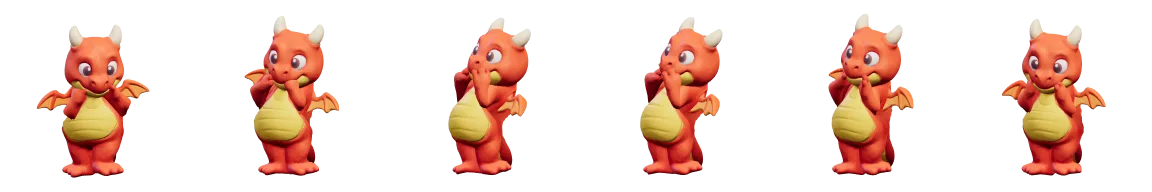
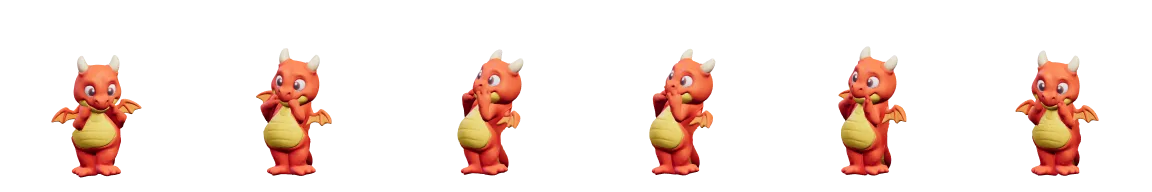
Dragen med alle rangene (vinger, gullvinger, krone) og litt større helt i kamp

diff --git a/js/figdata.js b/js/figdata.js
@@ -1,3 +1,3 @@
 // GENERERT av tools/figsync.js fra img/fig/manifest.json – ikke rediger for hånd (kjør node tools/figsync.js).
 // Registeret for figurene (js/figures.js): figs, atlas og files (filnavn -> versjon).
-const FIG_DATA={"figs":{"troll":{"kind":"boss","size":256,"anims":{"idle":{"n":16,"ms":2200,"loop":true},"taunt":{"n":16,"ms":1600},"hit":{"n":12,"ms":650},"fall":{"n":16,"ms":1300}}},"orm":{"kind":"boss","size":256,"anims":{"idle":{"n":16,"ms":1900,"loop":true},"taunt":{"n":16,"ms":1500},"hit":{"n":12,"ms":650},"fall":{"n":16,"ms":1300}}},"h-dragon-r0":{"kind":"hero","key":"dragon","rank":0,"size":192,"anims":{"idle":{"n":12,"ms":2000,"loop":true},"atk":{"n":8,"ms":560,"loop":false},"block":{"n":6,"ms":450,"loop":false},"win":{"n":12,"ms":1200,"loop":false}},"poster":true,"head":{"x":0.467,"y":0.358},"top":{"x":0.5,"y":0.147}},"h-unicorn-r0":{"kind":"hero","key":"unicorn","rank":0,"size":192,"anims":{"idle":{"n":12,"ms":2000,"loop":true},"atk":{"n":8,"ms":560,"loop":false},"block":{"n":6,"ms":450,"loop":false},"win":{"n":12,"ms":1200,"loop":false}},"poster":true,"head":{"x":0.621,"y":0.359},"top":{"x":0.68,"y":0.18}},"m-add10":{"kind":"mon","tid":"add10","size":256,"anims":{"idle":{"n":1},"au":{"n":1}}},"m-sub10":{"kind":"mon","tid":"sub10","size":256,"anims":{"idle":{"n":1},"au":{"n":1}}},"m-ten1":{"kind":"mon","tid":"ten1","size":256,"anims":{"idle":{"n":1},"au":{"n":1}}},"m-cmp1":{"kind":"mon","tid":"cmp1","size":256,"anims":{"idle":{"n":1},"au":{"n":1}}},"m-pat1":{"kind":"mon","tid":"pat1","size":256,"anims":{"idle":{"n":1},"au":{"n":1}}},"m-seq1":{"kind":"mon","tid":"seq1","size":256,"anims":{"idle":{"n":1},"au":{"n":1}}},"m-eq1":{"kind":"mon","tid":"eq1","size":256,"anims":{"idle":{"n":1},"au":{"n":1}}},"m-add20":{"kind":"mon","tid":"add20","size":256,"anims":{"idle":{"n":1},"au":{"n":1}}},"m-sub20":{"kind":"mon","tid":"sub20","size":256,"anims":{"idle":{"n":1},"au":{"n":1}}},"m-clock1":{"kind":"mon","tid":"clock1","size":256,"anims":{"idle":{"n":1},"au":{"n":1}}},"m-place2":{"kind":"mon","tid":"place2","size":256,"anims":{"idle":{"n":1},"au":{"n":1}}},"m-line2":{"kind":"mon","tid":"line2","size":256,"anims":{"idle":{"n":1},"au":{"n":1}}},"m-count2":{"kind":"mon","tid":"count2","size":256,"anims":{"idle":{"n":1},"au":{"n":1}}},"m-add100":{"kind":"mon","tid":"add100","size":256,"anims":{"idle":{"n":1},"au":{"n":1}}},"m-sub100":{"kind":"mon","tid":"sub100","size":256,"anims":{"idle":{"n":1},"au":{"n":1}}},"m-miss2":{"kind":"mon","tid":"miss2","size":256,"anims":{"idle":{"n":1},"au":{"n":1}}},"m-even2":{"kind":"mon","tid":"even2","size":256,"anims":{"idle":{"n":1},"au":{"n":1}}},"m-money2":{"kind":"mon","tid":"money2","size":256,"anims":{"idle":{"n":1},"au":{"n":1}}},"m-dbl2":{"kind":"mon","tid":"dbl2","size":256,"anims":{"idle":{"n":1},"au":{"n":1}}},"m-mul25":{"kind":"mon","tid":"mul25","size":256,"anims":{"idle":{"n":1},"au":{"n":1}}},"n-nullius":{"kind":"still","size":256,"anims":{"idle":{"n":1}}},"n-nullius-0":{"kind":"still","size":256,"anims":{"idle":{"n":1}}},"h-super-r0":{"kind":"hero","key":"super","rank":0,"size":192,"anims":{"idle":{"n":12,"ms":2000,"loop":true},"atk":{"n":8,"ms":560,"loop":false},"block":{"n":6,"ms":450,"loop":false},"win":{"n":12,"ms":1200,"loop":false}},"poster":true,"head":{"x":0.478,"y":0.371},"top":{"x":0.514,"y":0.124}},"h-wizard-r0":{"kind":"hero","key":"wizard","rank":0,"size":192,"anims":{"idle":{"n":12,"ms":2000,"loop":true},"atk":{"n":8,"ms":560,"loop":false},"block":{"n":6,"ms":450,"loop":false},"win":{"n":12,"ms":1200,"loop":false}},"poster":true,"head":{"x":0.477,"y":0.42},"top":{"x":0.517,"y":0.144}},"h-fox-r0":{"kind":"hero","key":"fox","rank":0,"size":192,"anims":{"idle":{"n":12,"ms":2000,"loop":true},"atk":{"n":8,"ms":560,"loop":false},"block":{"n":6,"ms":450,"loop":false},"win":{"n":12,"ms":1200,"loop":false}},"poster":true,"head":{"x":0.472,"y":0.462},"top":{"x":0.502,"y":0.273}},"h-ninja-r0":{"kind":"hero","key":"ninja","rank":0,"size":192,"anims":{"idle":{"n":12,"ms":2000,"loop":true},"atk":{"n":8,"ms":560,"loop":false},"block":{"n":6,"ms":450,"loop":false},"win":{"n":12,"ms":1200,"loop":false}},"poster":true,"head":{"x":0.474,"y":0.386},"top":{"x":0.511,"y":0.136}},"h-fairy-r0":{"kind":"hero","key":"fairy","rank":0,"size":192,"anims":{"idle":{"n":12,"ms":2000,"loop":true},"atk":{"n":8,"ms":560,"loop":false},"block":{"n":6,"ms":450,"loop":false},"win":{"n":12,"ms":1200,"loop":false}},"poster":true,"head":{"x":0.484,"y":0.365},"top":{"x":0.524,"y":0.093}},"h-robot-r0":{"kind":"hero","key":"robot","rank":0,"size":192,"anims":{"idle":{"n":12,"ms":2000,"loop":true},"atk":{"n":8,"ms":560,"loop":false},"block":{"n":6,"ms":450,"loop":false},"win":{"n":12,"ms":1200,"loop":false}},"poster":true,"head":{"x":0.464,"y":0.406},"top":{"x":0.497,"y":0.146}}},"atlas":{"s":{"file":"s-atlas.webp","cell":128,"w":768,"h":128,"items":{"0":[0,0],"1":[128,0],"2":[256,0],"3":[384,0],"4":[512,0],"5":[640,0]}},"p":{"file":"p-atlas.webp","cell":128,"w":768,"h":128,"items":{"chick":[0,0],"troll":[128,0],"butterfly":[256,0],"snake":[384,0],"crab":[512,0],"unicorn":[640,0]}}},"files":{"troll-idle.webp":"d6170ea9","troll-taunt.webp":"ec3d67c2","troll-hit.webp":"ded5462f","troll-fall.webp":"60408fed","orm-idle.webp":"376940ad","orm-taunt.webp":"a3bbf7b4","orm-hit.webp":"c51fb278","orm-fall.webp":"720150bd","h-dragon-r0-idle.webp":"0bebfcb2","h-dragon-r0-atk.webp":"896cbad2","h-dragon-r0-block.webp":"1406e22c","h-dragon-r0-win.webp":"226b0726","h-dragon-r0-poster.webp":"6b375b8d","h-unicorn-r0-idle.webp":"233be9b7","h-unicorn-r0-atk.webp":"be4c45d4","h-unicorn-r0-block.webp":"9d7732c1","h-unicorn-r0-win.webp":"71592e60","h-unicorn-r0-poster.webp":"4f27aa96","m-add10-idle.webp":"5d3c8532","m-add10-au.webp":"bc1979eb","m-sub10-idle.webp":"cacc0e66","m-sub10-au.webp":"82e89d97","m-ten1-idle.webp":"6ba46970","m-ten1-au.webp":"0f74cf09","m-cmp1-idle.webp":"6252f305","m-cmp1-au.webp":"2cefd33c","m-pat1-idle.webp":"d6b15438","m-pat1-au.webp":"97b20f22","m-seq1-idle.webp":"56edfe5a","m-seq1-au.webp":"d93b63d3","m-eq1-idle.webp":"74cbf384","m-eq1-au.webp":"47231a3d","m-add20-idle.webp":"27cd454a","m-add20-au.webp":"7c5ab995","m-sub20-idle.webp":"c0302ee8","m-sub20-au.webp":"e4b2fa83","m-clock1-idle.webp":"c74b902c","m-clock1-au.webp":"a9e1407c","m-place2-idle.webp":"ef45e82d","m-place2-au.webp":"f5cefb62","m-line2-idle.webp":"431129cb","m-line2-au.webp":"e063bb8d","m-count2-idle.webp":"5ae15c43","m-count2-au.webp":"01e0502c","m-add100-idle.webp":"6d4e9443","m-add100-au.webp":"c706ee81","m-sub100-idle.webp":"6529295c","m-sub100-au.webp":"a05fd245","m-miss2-idle.webp":"b58cdff5","m-miss2-au.webp":"13c20f8c","m-even2-idle.webp":"88120319","m-even2-au.webp":"171b8414","m-money2-idle.webp":"49811dfa","m-money2-au.webp":"ec9dfe41","m-dbl2-idle.webp":"cbf1e3f9","m-dbl2-au.webp":"415bf597","m-mul25-idle.webp":"93fa8112","m-mul25-au.webp":"43635e38","n-nullius-idle.webp":"245cbf7d","n-nullius-0-idle.webp":"57b320ff","h-super-r0-idle.webp":"520ecc83","h-super-r0-atk.webp":"7f12c8ca","h-super-r0-block.webp":"f2b40768","h-super-r0-win.webp":"34fc50a9","h-super-r0-poster.webp":"8254aab0","h-wizard-r0-idle.webp":"49307a80","h-wizard-r0-atk.webp":"f11a90de","h-wizard-r0-block.webp":"6d18dfef","h-wizard-r0-win.webp":"e77bf1c3","h-wizard-r0-poster.webp":"6ce6598e","h-fox-r0-idle.webp":"0ba04956","h-fox-r0-atk.webp":"e20f476b","h-fox-r0-block.webp":"3c1a57bf","h-fox-r0-win.webp":"50d18131","h-fox-r0-poster.webp":"5bd81fa2","h-ninja-r0-idle.webp":"5466d433","h-ninja-r0-atk.webp":"8bd07f6d","h-ninja-r0-block.webp":"924bdefd","h-ninja-r0-win.webp":"03f7a3fd","h-ninja-r0-poster.webp":"cd7fb27a","h-fairy-r0-idle.webp":"cd738c4f","h-fairy-r0-atk.webp":"3c5a9cd6","h-fairy-r0-block.webp":"111ccaa5","h-fairy-r0-win.webp":"2d08b867","h-fairy-r0-poster.webp":"468b665f","h-robot-r0-idle.webp":"44de8c27","h-robot-r0-atk.webp":"a5a7da61","h-robot-r0-block.webp":"b984bb30","h-robot-r0-win.webp":"7d0592ba","h-robot-r0-poster.webp":"7e4963cc","s-atlas.webp":"8e48be04","p-atlas.webp":"ed2b8d5c"}};
+const FIG_DATA={"figs":{"troll":{"kind":"boss","size":256,"anims":{"idle":{"n":16,"ms":2200,"loop":true},"taunt":{"n":16,"ms":1600},"hit":{"n":12,"ms":650},"fall":{"n":16,"ms":1300}}},"orm":{"kind":"boss","size":256,"anims":{"idle":{"n":16,"ms":1900,"loop":true},"taunt":{"n":16,"ms":1500},"hit":{"n":12,"ms":650},"fall":{"n":16,"ms":1300}}},"h-dragon-r0":{"kind":"hero","key":"dragon","rank":0,"size":192,"anims":{"idle":{"n":12,"ms":2000,"loop":true},"atk":{"n":8,"ms":560,"loop":false},"block":{"n":6,"ms":450,"loop":false},"win":{"n":12,"ms":1200,"loop":false}},"poster":true,"head":{"x":0.488,"y":0.47},"top":{"x":0.514,"y":0.302}},"h-unicorn-r0":{"kind":"hero","key":"unicorn","rank":0,"size":192,"anims":{"idle":{"n":12,"ms":2000,"loop":true},"atk":{"n":8,"ms":560,"loop":false},"block":{"n":6,"ms":450,"loop":false},"win":{"n":12,"ms":1200,"loop":false}},"poster":true,"head":{"x":0.621,"y":0.359},"top":{"x":0.68,"y":0.18}},"m-add10":{"kind":"mon","tid":"add10","size":256,"anims":{"idle":{"n":1},"au":{"n":1}}},"m-sub10":{"kind":"mon","tid":"sub10","size":256,"anims":{"idle":{"n":1},"au":{"n":1}}},"m-ten1":{"kind":"mon","tid":"ten1","size":256,"anims":{"idle":{"n":1},"au":{"n":1}}},"m-cmp1":{"kind":"mon","tid":"cmp1","size":256,"anims":{"idle":{"n":1},"au":{"n":1}}},"m-pat1":{"kind":"mon","tid":"pat1","size":256,"anims":{"idle":{"n":1},"au":{"n":1}}},"m-seq1":{"kind":"mon","tid":"seq1","size":256,"anims":{"idle":{"n":1},"au":{"n":1}}},"m-eq1":{"kind":"mon","tid":"eq1","size":256,"anims":{"idle":{"n":1},"au":{"n":1}}},"m-add20":{"kind":"mon","tid":"add20","size":256,"anims":{"idle":{"n":1},"au":{"n":1}}},"m-sub20":{"kind":"mon","tid":"sub20","size":256,"anims":{"idle":{"n":1},"au":{"n":1}}},"m-clock1":{"kind":"mon","tid":"clock1","size":256,"anims":{"idle":{"n":1},"au":{"n":1}}},"m-place2":{"kind":"mon","tid":"place2","size":256,"anims":{"idle":{"n":1},"au":{"n":1}}},"m-line2":{"kind":"mon","tid":"line2","size":256,"anims":{"idle":{"n":1},"au":{"n":1}}},"m-count2":{"kind":"mon","tid":"count2","size":256,"anims":{"idle":{"n":1},"au":{"n":1}}},"m-add100":{"kind":"mon","tid":"add100","size":256,"anims":{"idle":{"n":1},"au":{"n":1}}},"m-sub100":{"kind":"mon","tid":"sub100","size":256,"anims":{"idle":{"n":1},"au":{"n":1}}},"m-miss2":{"kind":"mon","tid":"miss2","size":256,"anims":{"idle":{"n":1},"au":{"n":1}}},"m-even2":{"kind":"mon","tid":"even2","size":256,"anims":{"idle":{"n":1},"au":{"n":1}}},"m-money2":{"kind":"mon","tid":"money2","size":256,"anims":{"idle":{"n":1},"au":{"n":1}}},"m-dbl2":{"kind":"mon","tid":"dbl2","size":256,"anims":{"idle":{"n":1},"au":{"n":1}}},"m-mul25":{"kind":"mon","tid":"mul25","size":256,"anims":{"idle":{"n":1},"au":{"n":1}}},"n-nullius":{"kind":"still","size":256,"anims":{"idle":{"n":1}}},"n-nullius-0":{"kind":"still","size":256,"anims":{"idle":{"n":1}}},"h-super-r0":{"kind":"hero","key":"super","rank":0,"size":192,"anims":{"idle":{"n":12,"ms":2000,"loop":true},"atk":{"n":8,"ms":560,"loop":false},"block":{"n":6,"ms":450,"loop":false},"win":{"n":12,"ms":1200,"loop":false}},"poster":true,"head":{"x":0.478,"y":0.371},"top":{"x":0.514,"y":0.124}},"h-wizard-r0":{"kind":"hero","key":"wizard","rank":0,"size":192,"anims":{"idle":{"n":12,"ms":2000,"loop":true},"atk":{"n":8,"ms":560,"loop":false},"block":{"n":6,"ms":450,"loop":false},"win":{"n":12,"ms":1200,"loop":false}},"poster":true,"head":{"x":0.477,"y":0.42},"top":{"x":0.517,"y":0.144}},"h-fox-r0":{"kind":"hero","key":"fox","rank":0,"size":192,"anims":{"idle":{"n":12,"ms":2000,"loop":true},"atk":{"n":8,"ms":560,"loop":false},"block":{"n":6,"ms":450,"loop":false},"win":{"n":12,"ms":1200,"loop":false}},"poster":true,"head":{"x":0.472,"y":0.462},"top":{"x":0.502,"y":0.273}},"h-ninja-r0":{"kind":"hero","key":"ninja","rank":0,"size":192,"anims":{"idle":{"n":12,"ms":2000,"loop":true},"atk":{"n":8,"ms":560,"loop":false},"block":{"n":6,"ms":450,"loop":false},"win":{"n":12,"ms":1200,"loop":false}},"poster":true,"head":{"x":0.474,"y":0.386},"top":{"x":0.511,"y":0.136}},"h-fairy-r0":{"kind":"hero","key":"fairy","rank":0,"size":192,"anims":{"idle":{"n":12,"ms":2000,"loop":true},"atk":{"n":8,"ms":560,"loop":false},"block":{"n":6,"ms":450,"loop":false},"win":{"n":12,"ms":1200,"loop":false}},"poster":true,"head":{"x":0.484,"y":0.365},"top":{"x":0.524,"y":0.093}},"h-robot-r0":{"kind":"hero","key":"robot","rank":0,"size":192,"anims":{"idle":{"n":12,"ms":2000,"loop":true},"atk":{"n":8,"ms":560,"loop":false},"block":{"n":6,"ms":450,"loop":false},"win":{"n":12,"ms":1200,"loop":false}},"poster":true,"head":{"x":0.464,"y":0.406},"top":{"x":0.497,"y":0.146}},"h-dragon-r1":{"kind":"hero","key":"dragon","rank":1,"size":192,"anims":{"idle":{"n":12,"ms":2000,"loop":true},"atk":{"n":8,"ms":560,"loop":false},"block":{"n":6,"ms":450,"loop":false},"win":{"n":12,"ms":1200,"loop":false}},"poster":true,"head":{"x":0.488,"y":0.47},"top":{"x":0.514,"y":0.302}},"h-dragon-r2":{"kind":"hero","key":"dragon","rank":2,"size":192,"anims":{"idle":{"n":12,"ms":2000,"loop":true},"atk":{"n":8,"ms":560,"loop":false},"block":{"n":6,"ms":450,"loop":false},"win":{"n":12,"ms":1200,"loop":false}},"poster":true,"head":{"x":0.488,"y":0.47},"top":{"x":0.514,"y":0.302}},"h-dragon-r3":{"kind":"hero","key":"dragon","rank":3,"size":192,"anims":{"idle":{"n":12,"ms":2000,"loop":true},"atk":{"n":8,"ms":560,"loop":false},"block":{"n":6,"ms":450,"loop":false},"win":{"n":12,"ms":1200,"loop":false}},"poster":true,"head":{"x":0.488,"y":0.47},"top":{"x":0.514,"y":0.302}}},"atlas":{"s":{"file":"s-atlas.webp","cell":128,"w":768,"h":128,"items":{"0":[0,0],"1":[128,0],"2":[256,0],"3":[384,0],"4":[512,0],"5":[640,0]}},"p":{"file":"p-atlas.webp","cell":128,"w":768,"h":128,"items":{"chick":[0,0],"troll":[128,0],"butterfly":[256,0],"snake":[384,0],"crab":[512,0],"unicorn":[640,0]}}},"files":{"troll-idle.webp":"d6170ea9","troll-taunt.webp":"ec3d67c2","troll-hit.webp":"ded5462f","troll-fall.webp":"60408fed","orm-idle.webp":"376940ad","orm-taunt.webp":"a3bbf7b4","orm-hit.webp":"c51fb278","orm-fall.webp":"720150bd","h-dragon-r0-idle.webp":"c5c17730","h-dragon-r0-atk.webp":"9162ac7a","h-dragon-r0-block.webp":"c0a21f40","h-dragon-r0-win.webp":"34f7a166","h-dragon-r0-poster.webp":"ea5c50ad","h-unicorn-r0-idle.webp":"233be9b7","h-unicorn-r0-atk.webp":"be4c45d4","h-unicorn-r0-block.webp":"9d7732c1","h-unicorn-r0-win.webp":"71592e60","h-unicorn-r0-poster.webp":"4f27aa96","m-add10-idle.webp":"5d3c8532","m-add10-au.webp":"bc1979eb","m-sub10-idle.webp":"cacc0e66","m-sub10-au.webp":"82e89d97","m-ten1-idle.webp":"6ba46970","m-ten1-au.webp":"0f74cf09","m-cmp1-idle.webp":"6252f305","m-cmp1-au.webp":"2cefd33c","m-pat1-idle.webp":"d6b15438","m-pat1-au.webp":"97b20f22","m-seq1-idle.webp":"56edfe5a","m-seq1-au.webp":"d93b63d3","m-eq1-idle.webp":"74cbf384","m-eq1-au.webp":"47231a3d","m-add20-idle.webp":"27cd454a","m-add20-au.webp":"7c5ab995","m-sub20-idle.webp":"c0302ee8","m-sub20-au.webp":"e4b2fa83","m-clock1-idle.webp":"c74b902c","m-clock1-au.webp":"a9e1407c","m-place2-idle.webp":"ef45e82d","m-place2-au.webp":"f5cefb62","m-line2-idle.webp":"431129cb","m-line2-au.webp":"e063bb8d","m-count2-idle.webp":"5ae15c43","m-count2-au.webp":"01e0502c","m-add100-idle.webp":"6d4e9443","m-add100-au.webp":"c706ee81","m-sub100-idle.webp":"6529295c","m-sub100-au.webp":"a05fd245","m-miss2-idle.webp":"b58cdff5","m-miss2-au.webp":"13c20f8c","m-even2-idle.webp":"88120319","m-even2-au.webp":"171b8414","m-money2-idle.webp":"49811dfa","m-money2-au.webp":"ec9dfe41","m-dbl2-idle.webp":"cbf1e3f9","m-dbl2-au.webp":"415bf597","m-mul25-idle.webp":"93fa8112","m-mul25-au.webp":"43635e38","n-nullius-idle.webp":"245cbf7d","n-nullius-0-idle.webp":"57b320ff","h-super-r0-idle.webp":"520ecc83","h-super-r0-atk.webp":"7f12c8ca","h-super-r0-block.webp":"f2b40768","h-super-r0-win.webp":"34fc50a9","h-super-r0-poster.webp":"8254aab0","h-wizard-r0-idle.webp":"49307a80","h-wizard-r0-atk.webp":"f11a90de","h-wizard-r0-block.webp":"6d18dfef","h-wizard-r0-win.webp":"e77bf1c3","h-wizard-r0-poster.webp":"6ce6598e","h-fox-r0-idle.webp":"0ba04956","h-fox-r0-atk.webp":"e20f476b","h-fox-r0-block.webp":"3c1a57bf","h-fox-r0-win.webp":"50d18131","h-fox-r0-poster.webp":"5bd81fa2","h-ninja-r0-idle.webp":"5466d433","h-ninja-r0-atk.webp":"8bd07f6d","h-ninja-r0-block.webp":"924bdefd","h-ninja-r0-win.webp":"03f7a3fd","h-ninja-r0-poster.webp":"cd7fb27a","h-fairy-r0-idle.webp":"cd738c4f","h-fairy-r0-atk.webp":"3c5a9cd6","h-fairy-r0-block.webp":"111ccaa5","h-fairy-r0-win.webp":"2d08b867","h-fairy-r0-poster.webp":"468b665f","h-robot-r0-idle.webp":"44de8c27","h-robot-r0-atk.webp":"a5a7da61","h-robot-r0-block.webp":"b984bb30","h-robot-r0-win.webp":"7d0592ba","h-robot-r0-poster.webp":"7e4963cc","h-dragon-r1-idle.webp":"de432c16","h-dragon-r1-atk.webp":"2772c27e","h-dragon-r1-block.webp":"58d07ac5","h-dragon-r1-win.webp":"585124e6","h-dragon-r1-poster.webp":"ed7867c6","h-dragon-r2-idle.webp":"b4c05a6c","h-dragon-r2-atk.webp":"c5d8f5ff","h-dragon-r2-block.webp":"ec298d9e","h-dragon-r2-win.webp":"696ca24c","h-dragon-r2-poster.webp":"8ff9d442","h-dragon-r3-idle.webp":"144d45a1","h-dragon-r3-atk.webp":"84fc0791","h-dragon-r3-block.webp":"9c228ef2","h-dragon-r3-win.webp":"4c92ed72","h-dragon-r3-poster.webp":"c5f6e88e","s-atlas.webp":"8e48be04","p-atlas.webp":"ed2b8d5c"}};

diff --git a/css/figures.css b/css/figures.css
@@ -55,7 +55,7 @@
 .cel-mon.fig{--fs:52px;}
 .story-villain.fig{--fs:130px;}
 .end-morph span.fig{--fs:100px;}
-#player-avatar{--fs:104px;}
+#player-avatar{--fs:124px;} /* rammen er satt for største rang (vinger og krone), så helten trenger litt mer plass enn monsteret */
 #hud-char{--fs:40px;}
 #hud-sidekick{--fs:32px;}
 .char-emoji{--fs:72px;}
@@ -80,7 +80,7 @@
 .pg-item-emoji[data-fig-l]{display:block;margin:0 auto;}
 @media(max-width:500px){.char-emoji{--fs:52px;}.char-emoji[data-fig-l]{margin-bottom:0;}}
 @media(max-width:420px){.enemy-avatar.fig{--fs:88px;}#screen-game.boss-mode .enemy-avatar.fig{--fs:120px;}.boss-emoji.fig{--fs:150px;}
-  #player-avatar{--fs:88px;}#hud-char{--fs:36px;}#hud-sidekick{--fs:28px;}#evo-new{--fs:112px;}#evo-old{--fs:72px;}#br-emoji[data-fig-l]{--fs:130px;}#hc-char{--fs:104px;}}
+  #player-avatar{--fs:104px;}#hud-char{--fs:36px;}#hud-sidekick{--fs:28px;}#evo-new{--fs:112px;}#evo-old{--fs:72px;}#br-emoji[data-fig-l]{--fs:130px;}#hc-char{--fs:104px;}}
 
 /* Figurene har egen bevegelse: demp emojiens glød-skygge litt så de ikke blir uskarpe */
 .enemy-avatar.fig{filter:drop-shadow(0 6px 10px rgba(0,0,0,.45)) drop-shadow(0 0 12px rgba(255,68,102,.45));}
